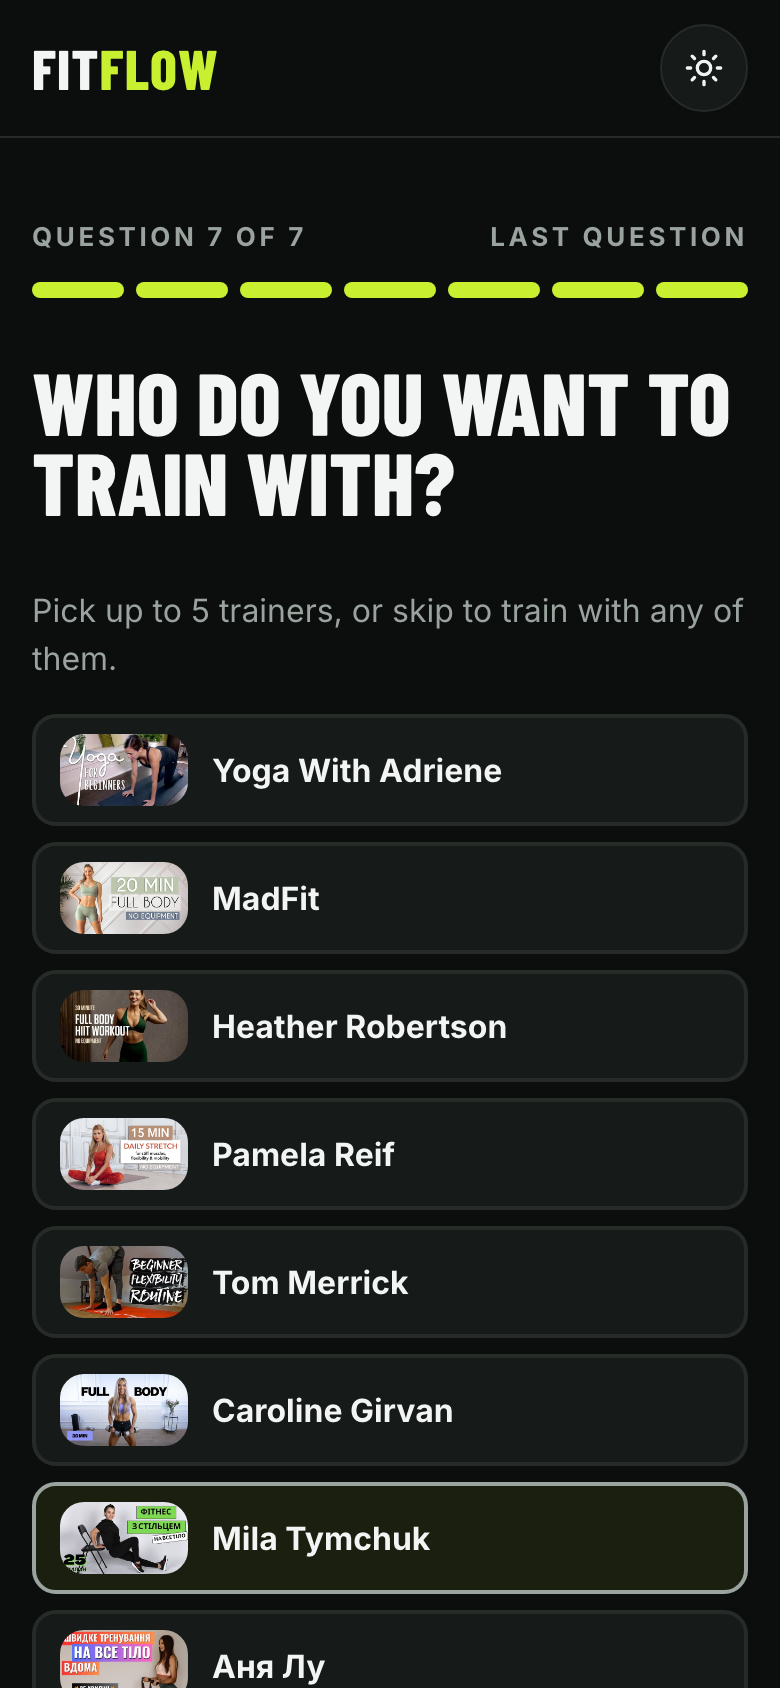
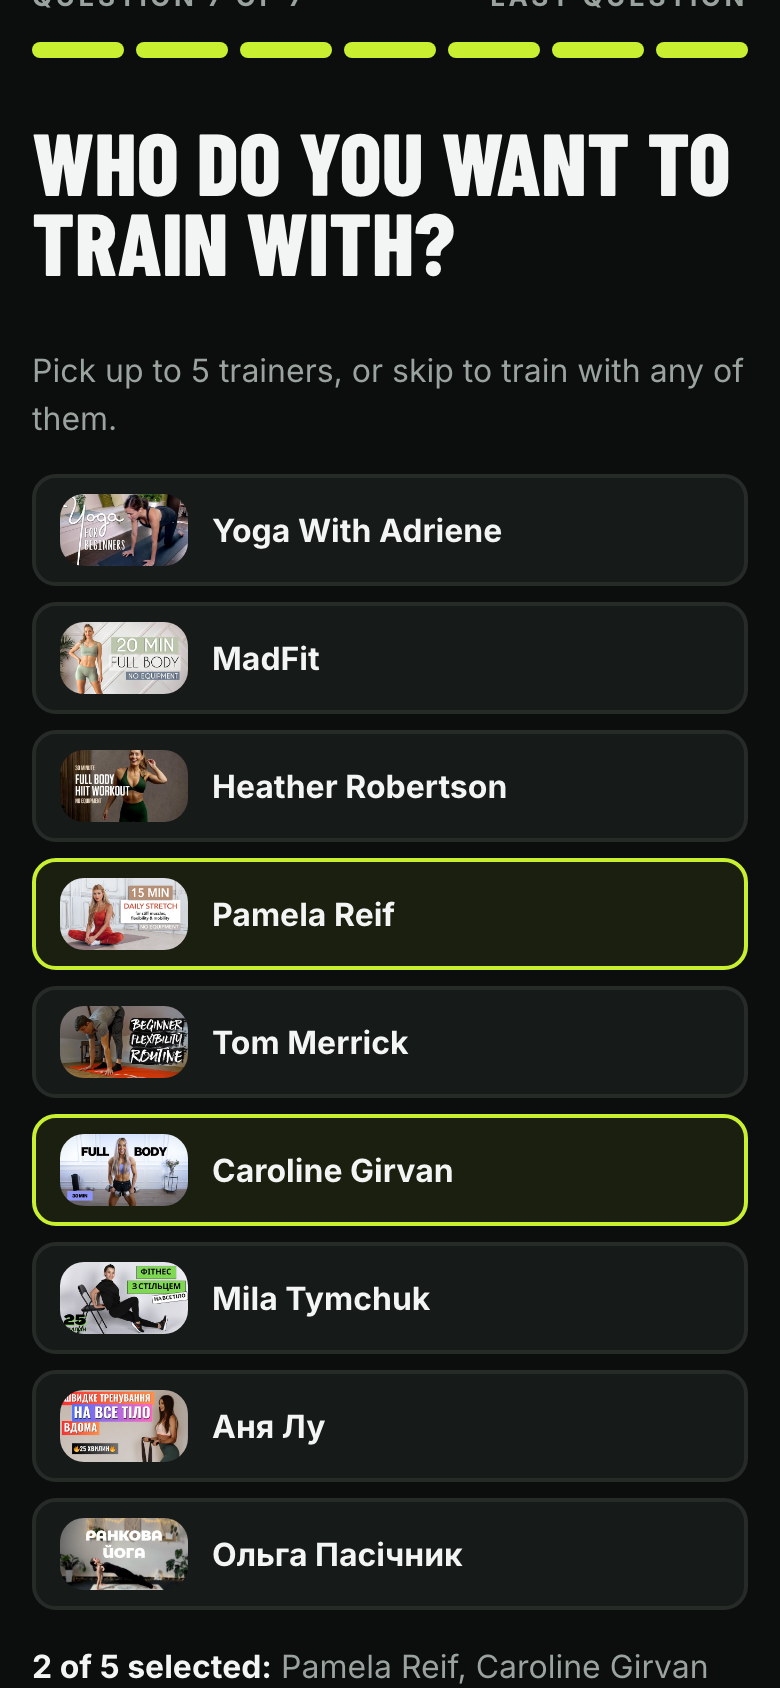
T331: README for trainers, screenshots, 004 in the SDD table

diff --git a/README.md b/README.md
@@ -1,6 +1,6 @@
 # FitFlow
 
-**Workouts that match your mood.** Answer six quick questions about how you feel, and FitFlow builds a workout plan from curated YouTube videos: strength, cardio, stretching, yoga and calm sessions, with rest days built in. Every day it asks how you feel and adjusts today's workout.
+**Workouts that match your mood.** Answer six quick questions about how you feel, pick the trainers you like, and FitFlow builds a workout plan from curated YouTube videos: strength, cardio, stretching, yoga and calm sessions, with rest days built in. Every day it asks how you feel and adjusts today's workout.
 
 **Live demo:** [fitflow-nk-lymenok.vercel.app](https://fitflow-nk-lymenok.vercel.app)
 
@@ -11,6 +11,7 @@ This is a portfolio project, built with an AI coding assistant (Claude Code) usi
 ## What it does
 
 - **Mood quiz.** Six one-tap questions: mood, energy, goal, days per week, minutes per session, plan length. Each answer explains what it means.
+- **Trainers.** Nine YouTube trainers, English and Ukrainian, with what they teach, how many videos and how long. Choose one to five of them (or any), and switch off workout types you don't want, in the quiz or later; changing your mind rebuilds the plan from today and keeps what you've done. FitFlow warns you when a choice can't fill your session length.
 - **Generated plan.** Sessions are spread over the chosen days and filled with videos that add up to the chosen length. The mix of workout types follows the answers: a stressed, low-energy user gets mostly calm, yoga and stretching sessions, and a motivated, high-energy user gets mostly strength and cardio.
 - **Today.** The home screen shows today's workout with one-tap Start, or tells you it's a rest day and what's next.
 - **Daily check-in.** One tap: Low, Okay or Ready. Feeling low on a cardio day? FitFlow offers something gentler of the same length; ready on a rest day, a short extra session. Swap in two taps, undo any time that day.
@@ -27,6 +28,10 @@ This is a portfolio project, built with an AI coding assistant (Claude Code) usi
 |---|---|---|
 | ![Today, light theme](docs/screenshots/today-light.png) | ![Quiz with answer hints](docs/screenshots/quiz-dark.png) | ![Today on a phone](docs/screenshots/phone-today-dark.png) |
 
+| Trainers | A trainer's videos | Choosing trainers in the quiz |
+|---|---|---|
+| ![Trainers page with two trainers selected](docs/screenshots/trainers-dark.png) | ![A trainer's page, light theme](docs/screenshots/trainer-light.png) | ![The quiz trainers step on a phone](docs/screenshots/phone-quiz-trainers-dark.png) |
+
 | Daily check-in | After a swap |
 |---|---|
 | ![Check-in with a gentler suggestion](docs/screenshots/today-checkin-dark.png) | ![Swapped session on a phone, light theme](docs/screenshots/phone-swapped-light.png) |
@@ -39,18 +44,18 @@ This is a portfolio project, built with an AI coding assistant (Claude Code) usi
 
 ### Spec-driven development with AI
 
-Three features so far, each with the same four documents, under one shared [constitution](specs/constitution.md) (stack, no backend, no API keys, testing, quality bar):
+Four features so far, each with the same four documents, under one shared [constitution](specs/constitution.md) (stack, no backend, no API keys, testing, quality bar):
 
-| Step | [001 · Workout planner](specs/001-workout-planner/) | [002 · UI refresh](specs/002-ui-refresh/) | [003 · Mood and progress](specs/003-mood-and-progress/) |
-|---|---|---|---|
-| Spec: user stories, acceptance criteria, out of scope | [spec.md](specs/001-workout-planner/spec.md) | [spec.md](specs/002-ui-refresh/spec.md) | [spec.md](specs/003-mood-and-progress/spec.md) |
-| Plan: architecture, data, trade-offs, risks | [plan.md](specs/001-workout-planner/plan.md) | [plan.md](specs/002-ui-refresh/plan.md) | [plan.md](specs/003-mood-and-progress/plan.md) |
-| Tasks: ordered, each with a "done when" check | [tasks.md](specs/001-workout-planner/tasks.md) (26) | [tasks.md](specs/002-ui-refresh/tasks.md) (17) | [tasks.md](specs/003-mood-and-progress/tasks.md) (13) |
-| Acceptance: every criterion checked | [acceptance.md](specs/001-workout-planner/acceptance.md) | [acceptance.md](specs/002-ui-refresh/acceptance.md) | [acceptance.md](specs/003-mood-and-progress/acceptance.md) |
+| Step | [001 · Workout planner](specs/001-workout-planner/) | [002 · UI refresh](specs/002-ui-refresh/) | [003 · Mood and progress](specs/003-mood-and-progress/) | [004 · Trainers](specs/004-trainers/) |
+|---|---|---|---|---|
+| Spec: user stories, acceptance criteria, out of scope | [spec.md](specs/001-workout-planner/spec.md) | [spec.md](specs/002-ui-refresh/spec.md) | [spec.md](specs/003-mood-and-progress/spec.md) | [spec.md](specs/004-trainers/spec.md) |
+| Plan: architecture, data, trade-offs, risks | [plan.md](specs/001-workout-planner/plan.md) | [plan.md](specs/002-ui-refresh/plan.md) | [plan.md](specs/003-mood-and-progress/plan.md) | [plan.md](specs/004-trainers/plan.md) |
+| Tasks: ordered, each with a "done when" check | [tasks.md](specs/001-workout-planner/tasks.md) (26) | [tasks.md](specs/002-ui-refresh/tasks.md) (17) | [tasks.md](specs/003-mood-and-progress/tasks.md) (13) | [tasks.md](specs/004-trainers/tasks.md) (15) |
+| Acceptance: every criterion checked | [acceptance.md](specs/001-workout-planner/acceptance.md) | [acceptance.md](specs/002-ui-refresh/acceptance.md) | [acceptance.md](specs/003-mood-and-progress/acceptance.md) | [acceptance.md](specs/004-trainers/acceptance.md) |
 
-I made the product decisions: the idea, the five YouTube channels, the quiz, the scope of each release, the visual direction (picked from four mockups) and when to move on. The AI drafted the documents, mockups and code, and I reviewed them at checkpoints. When implementation showed the plan was wrong (for example, no high-intensity yoga video was short enough for a 10-minute session), the plan was updated first and the code second. The git history shows this: one commit per task.
+I made the product decisions: the idea, the trainers (the AI researched Ukrainian channels, and I approved them; see the [catalog review](specs/004-trainers/catalog-review.md)), the quiz, the scope of each release, the visual direction (picked from four mockups) and when to move on. The AI drafted the documents, mockups and code, and I reviewed them at checkpoints. When implementation showed the plan was wrong (for example, no high-intensity yoga video was short enough for a 10-minute session), the plan was updated first and the code second. The git history shows this: one commit per task.
 
-Spec 002 started with a safety net: before any visual change, all of 001's acceptance checks became automated end-to-end tests, so the redesign could not quietly break a feature. Spec 003 changed the saved-data format for the first time: a `migrate()` hook planned back in 001 upgrades existing users' plans, tested against real data saved by the previous release.
+Spec 002 started with a safety net: before any visual change, all of 001's acceptance checks became automated end-to-end tests, so the redesign could not quietly break a feature. Spec 003 changed the saved-data format for the first time: a `migrate()` hook planned back in 001 upgrades existing users' plans, tested against real data saved by the previous release. Spec 004 changed it again (version 3) and went through two review checkpoints: the first swapped two Ukrainian channels that had too few videos with a known length, and the second moved a button, made saving visibly confirm what happened to the plan, and added trainer pictures.
 
 ### Architecture
 
@@ -59,10 +64,10 @@ src/
   domain/      pure JavaScript, no React: quiz, weights, plan generation,
                video picking, edits (reducer), today, check-in suggestions,
                streaks, .ics export, storage with migrations, dates — all unit-tested
-  data/        catalog.json: 76 curated videos from 5 channels
+  data/        trainers.json (9 trainers) and catalog.json (125 curated videos)
   state/       plan and theme providers; the plan is saved to localStorage on every change
   styles/      design tokens: one set of names, two themes (dark, light)
-  pages/       Landing, Quiz, Today, Calendar, Session
+  pages/       Landing, Quiz, Today, Calendar, Session, Trainers, Trainer
   components/  week/month views, player, tab bar, dialogs, editors
 e2e/           Playwright tests: user flows, accessibility, keyboard, themes, motion
 ```
@@ -73,18 +78,18 @@ All decisions live in `src/domain/`; React components only render state and disp
 
 **Plan generation** is a pure function of the quiz answers, the catalog and a random seed, so the same inputs always give the same plan:
 
-1. Each answer adds points to the five workout types (a lookup table); every type keeps a minimum weight so plans stay varied.
+1. Each answer adds points to the five workout types (a lookup table); every type keeps a minimum weight so plans stay varied. Types the chosen trainers don't teach, that are switched off, or that have no video short enough for the session length get no weight.
 2. Training days follow a fixed spread for the chosen days per week, starting today.
 3. Each session gets a weighted-random type, never the same type more than twice in a row.
 4. Videos are picked to land within ±5 minutes or ±25% of the target length: one video if possible, otherwise two or three combined. Videos used in the previous 7 days are avoided, and the energy-based intensity filter is relaxed only when nothing else fits.
 
 ### Quality
 
-- **152 unit tests** (Vitest). One test generates a plan for every possible set of quiz answers (2,880 combinations) with 3 seeds and checks every rule from the spec: session days, length tolerance, no avoidable video repeats, valid catalog IDs.
-- **End-to-end tests** (Playwright) for every acceptance criterion, in Chromium, Firefox and WebKit, at desktop and phone sizes: 342 runs. They also run against the live site after each deploy.
+- **191 unit tests** (Vitest). One test generates a plan for every possible set of quiz answers (2,880 combinations) with 3 seeds and checks every rule from the spec: session days, length tolerance, no avoidable video repeats, valid catalog IDs. Another generates plans with every trainer alone and checks that only their videos are used.
+- **End-to-end tests** (Playwright) for every acceptance criterion, in Chromium, Firefox and WebKit, at desktop and phone sizes: 414 runs. They also run against the live site after each deploy.
 - **Accessibility:** axe-core reports no violations on any page or dialog in either theme; contrast meets WCAG AA; the whole flow is tested with the keyboard alone; dialogs use the native `<dialog>` element for focus handling; all motion respects "reduce motion".
 - **Responsive** from 360px phones to desktop, with no sideways scrolling.
-- **Catalog check:** `npm run check:catalog` confirms through YouTube's public oEmbed endpoint (no API key) that every video still exists, allows embedding and belongs to the expected channel.
+- **Catalog check:** `npm run check:catalog` confirms through YouTube's public oEmbed endpoint (no API key) that every video still exists, allows embedding and belongs to the expected trainer's channel.
 - **Fast:** self-hosted fonts, and the YouTube player script loads only when a workout is opened.
 
 ## Tech stack
@@ -112,8 +117,8 @@ npm run sample:plans     # print a few generated plans
 
 ## What's next
 
-Ideas for later specs: reminders, a history of moods and workouts across plans, and sharing a plan with a friend.
+Ideas for later specs: more trainers (about 20, with short videos from Mila Tymchuk and Ольга Пасічник so they can fill 10-minute sessions alone), reminders, a history of moods and workouts across plans, and sharing a plan with a friend.
 
 ## Credits
 
-Workout videos by [Yoga With Adriene](https://www.youtube.com/@yogawithadriene), [MadFit](https://www.youtube.com/@MadFit), [Heather Robertson](https://www.youtube.com/@HeatherRobertsoncom), [Pamela Reif](https://www.youtube.com/@PamelaRf1) and [Tom Merrick](https://www.youtube.com/@BodyweightWarrior). All videos belong to their creators and play through YouTube's embedded player. FitFlow is not affiliated with any of them.
+Workout videos by [Yoga With Adriene](https://www.youtube.com/@yogawithadriene), [MadFit](https://www.youtube.com/@MadFit), [Heather Robertson](https://www.youtube.com/@Heatherrobertsoncom), [Pamela Reif](https://www.youtube.com/@PamelaRf1), [Tom Merrick](https://www.youtube.com/@BodyweightWarrior), [Caroline Girvan](https://www.youtube.com/@CarolineGirvan), [Mila Tymchuk](https://www.youtube.com/@milatymchuk), [Аня Лу](https://www.youtube.com/@anialu) and [Ольга Пасічник](https://www.youtube.com/@pasichnyk_olha). All videos and thumbnails belong to their creators; videos play through YouTube's embedded player and thumbnails load from YouTube. FitFlow is not affiliated with any of them.

diff --git a/specs/004-trainers/tasks.md b/specs/004-trainers/tasks.md
@@ -42,6 +42,6 @@ Changes requested at Checkpoint B (2026-10-23):
 ## Phase 4 — Release
 
 - [x] **T330** Verification: accessibility for the new pages and states in both themes, full unit and e2e runs, `check:catalog`. Record results in `specs/004-trainers/acceptance.md`.
-- [ ] **T331** README: trainers in "What it does", screenshots, the 004 docs in the SDD table, test counts.
+- [x] **T331** README: trainers in "What it does", screenshots, the 004 docs in the SDD table, test counts.
 - [ ] **T332** Push to `main`, run the e2e suite against the live site, and ask the user to try a single-trainer plan on their iPhone.
   Done when: the live run is green and the user has checked it.
